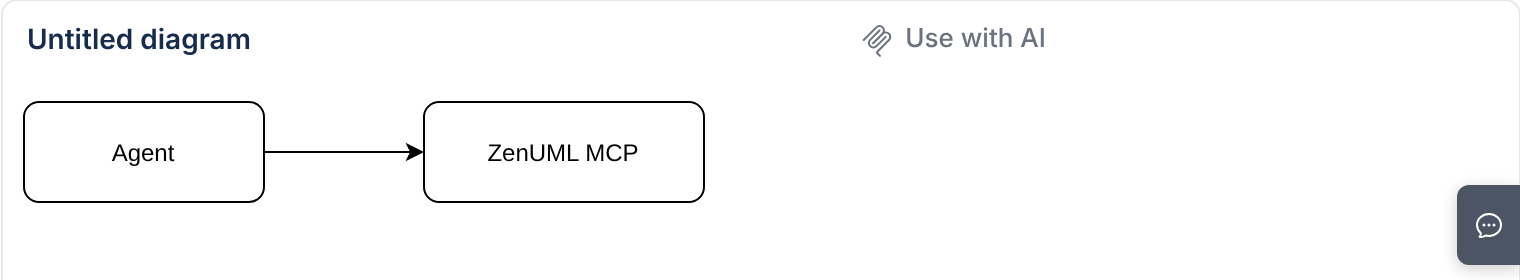
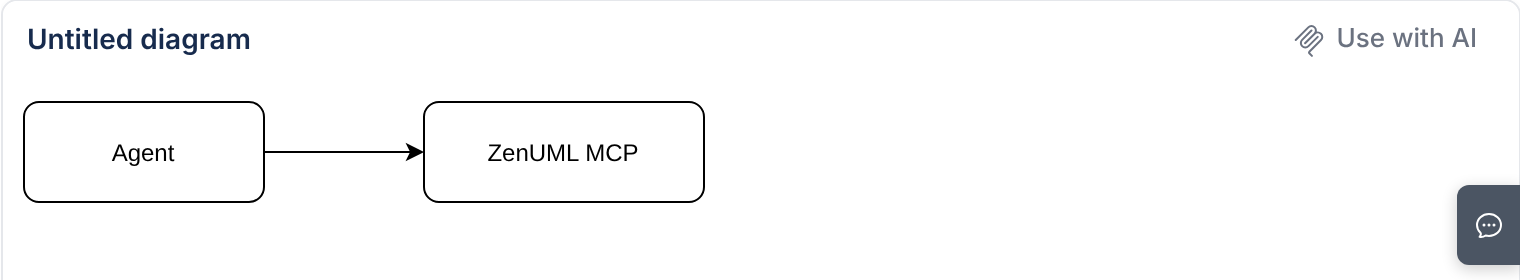
evidence: pr-1339 recapture on b9091d9 (pinned button at the right end)
Claude-Session: https://claude.ai/code/session_013KguqjG8iC6MhZJeABtr4G

Changed region(s): [[0.8349, 0.0857, 0.9895, 0.1714], [0.5566, 0.0857, 0.7112, 0.1714]]

diff --git a/pr-1339/README.md b/pr-1339/README.md
@@ -1,15 +1,16 @@
 # PR #1339 — Connect MCP button test
 
-Candidate `a0c6879f054b1691ce2332d6645409d22b90ad1d` (the pin asks Confluence's page permission check; first captures were `3a486bb`); baseline `main` at `f0980039f` (the control arm is the baseline button, unchanged).
+Candidate `b9091d995e0a4cccca0711a878289d1c04aef78c` (pinned button at the right end of the row, before Create; earlier captures were `3a486bb` and `a0c6879`); baseline `main` at `f0980039f` (the control arm is the baseline button, unchanged).
 
 All captures are the macro **at rest**: the mouse is outside the macro, so the inline header shows only what is visible without hover.
 
 | File | Where | Arm | Viewer | Observed |
 |---|---|---|---|---|
-| `whimet4-control.png` | whimet4 dev site, Forge build `a0c6879` (bundle contains the SHA) | `control` (forced) | robot account, can edit | label `MCP`, opacity 0, title "Connect MCP" |
+| `whimet4-control.png` | whimet4 dev site, Forge build `b9091d9` (bundle contains the SHA) | `control` (forced) | robot account, can edit | label `MCP`, opacity 0, title "Connect MCP" |
 | `whimet4-outcome-editor.png` | same | `outcome_label` (forced) | same; Confluence permission check answered `true` (cached `{"v":true}`) | label `Use with AI`, opacity 1, pinned, title "Connect an AI agent (MCP)" |
 | `storybook-control.png` | `storybook dev`, story `Connect MCP test — control, at rest` | `control` | can edit | label `MCP`, opacity 0 |
 | `storybook-outcome-editor.png` | story `Connect MCP test — "Use with AI", editor at rest` | `outcome_label` | permission check stubbed `hasPermission: true` | label `Use with AI`, opacity 1, pinned |
+| `storybook-outcome-editor-hover.png` | same story, mouse over the macro | `outcome_label` | permission check stubbed `hasPermission: true` | full row revealed: Source, More, Edit, Fullscreen, `Use with AI`, Create |
 | `storybook-outcome-reader.png` | story `Connect MCP test — "Use with AI", reader at rest` | `outcome_label` | permission check stubbed `hasPermission: false` | label `Use with AI`, opacity 0 |
 
 - Arms were forced with the QA override `localStorage['zenuml.mcpButtonVariant']` in the macro iframe; production assigns them by account hash.
